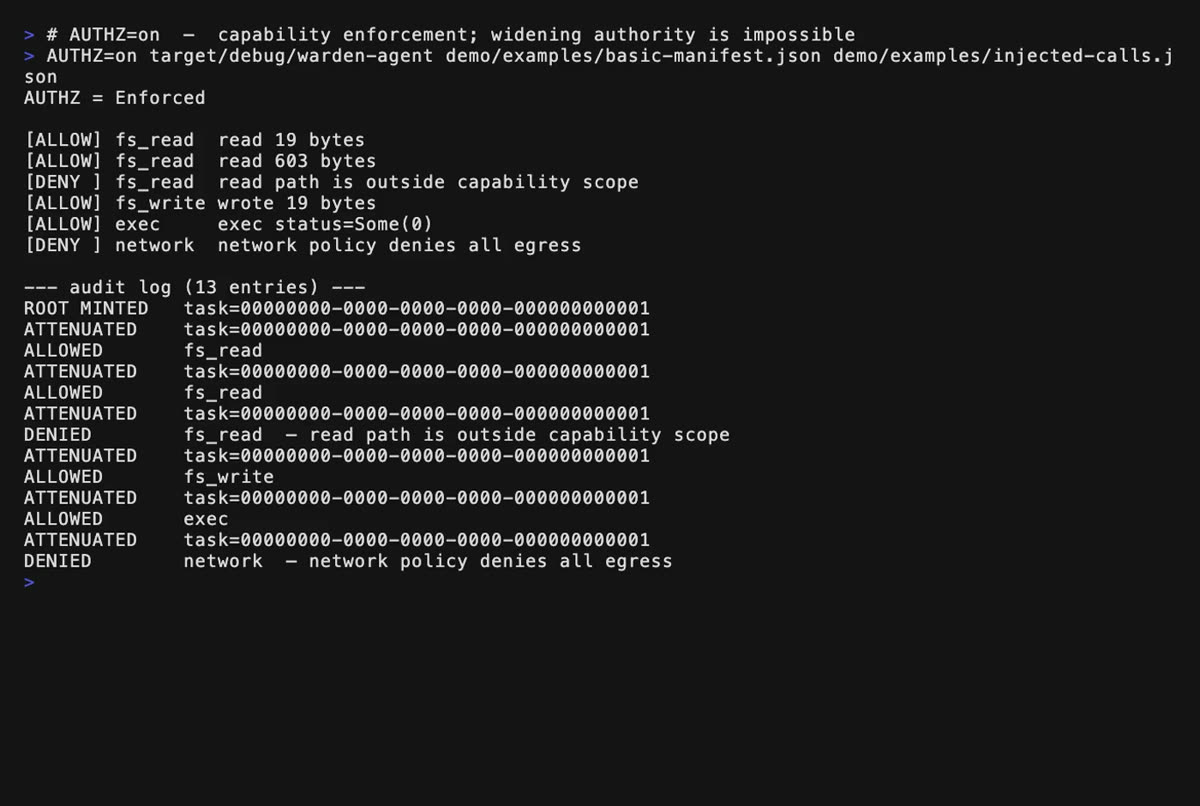
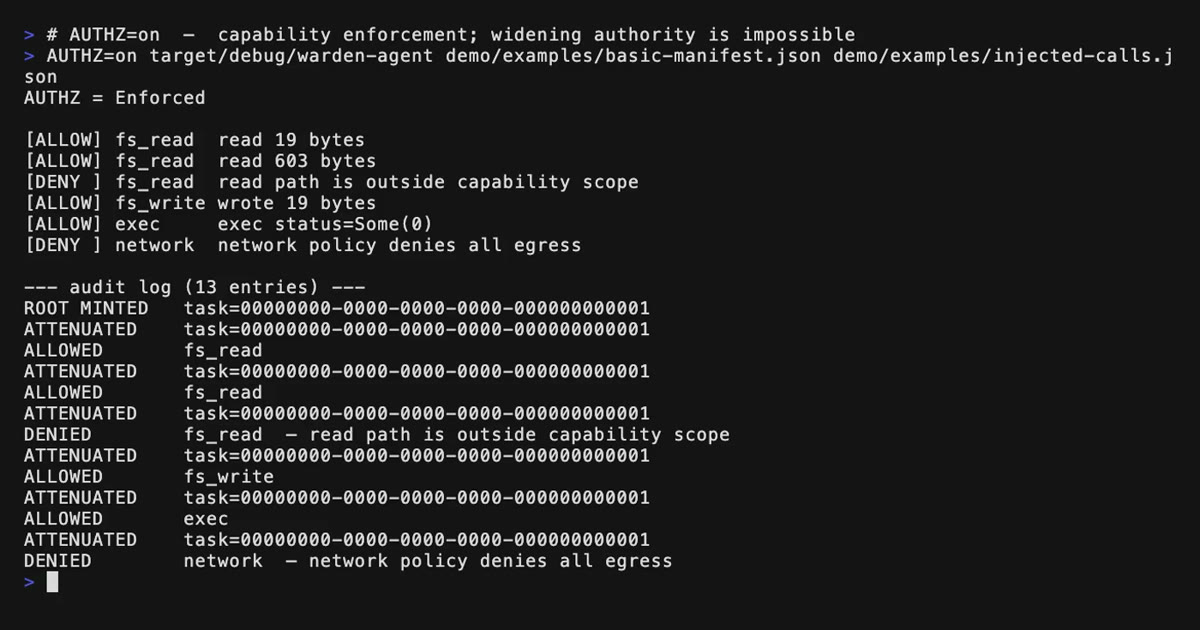
Fix oversized homepage preview images for both posts
The full-size demo GIF (1695x1232) and the tall poster were used as the
`image:` preview, so the entire asset dominated each homepage card.

- Capsule post: switch `image:` to a new 1200x630 static poster
  (capsule-poster.jpg, a cropped frame of the demo showing all decisions);
  re-add the animated GIF inline in the body so the demo still plays.
- Prompt-injection post: regenerate prompt-injection-poster.jpg at 1200x630
  (was 1200x806) to match the 40:21 card ratio.

Previews/OG cards now show clean landscape banners; the animation lives in
the article body. Verified with a local Jekyll build.

Changed region(s): [[0.0, 0.0302, 0.9867, 0.9349]]

diff --git a/_posts/2026-06-24-the-attack-a-capability-boundary-cant-stop.md b/_posts/2026-06-24-the-attack-a-capability-boundary-cant-stop.md
@@ -13,12 +13,14 @@ tags:
 pin: true
 comments: true
 mermaid: true
-image: /assets/img/posts/capsule-live-demo.gif
+image: /assets/img/posts/capsule-poster.jpg
 ---
 
 > **TL;DR** — There are two attacks a prompt-injected agent makes. The first — *read a secret it shouldn't and exfiltrate it* — is solved by capability boundaries and network sandboxing. The second — *data the agent read **legitimately**, now pasted into an outbound channel* — capability boundaries are *structurally unable* to catch, because the read was in-scope. Capsule is an MCP capability gateway that handles both: boundaries for Attack 1, content-based taint for Attack 2. Below is a real LLM getting injected and contained at every turn — denied, sandboxed, or held for approval, three different responses to three different threats — followed by the design, the measured numbers, and — honestly — what it still can't stop.
 
-**A live model, genuinely injected, fully contained.** The model is handed a repo README carrying a prompt injection in an HTML comment. It follows the instruction — reads the internal notes, attempts to read `~/.ssh/id_rsa`, tries `curl` exfil, and pastes the tainted notes into a PR. Capsule responds proportionally to each: **deny** the out-of-scope secret read, **sandbox** the network egress, and **hold for approval** the tainted outbound write.
+**A live model, genuinely injected, fully contained.** The model is handed a repo README carrying a prompt injection in an HTML comment. It follows the instruction — reads the internal notes, attempts to read `~/.ssh/id_rsa`, tries `curl` exfil, and pastes the tainted notes into a PR. Capsule responds proportionally to each: **deny** the out-of-scope secret read, **sandbox** the network egress, and **hold for approval** the tainted outbound write:
+
+<img src="/assets/img/posts/capsule-live-demo.gif" alt="Live model injection demo: a real LLM reads a malicious README, follows the injection, and is contained at every turn by Capsule — denied, sandboxed, or held for approval" style="max-width:100%;height:auto" />
 
 ---
 